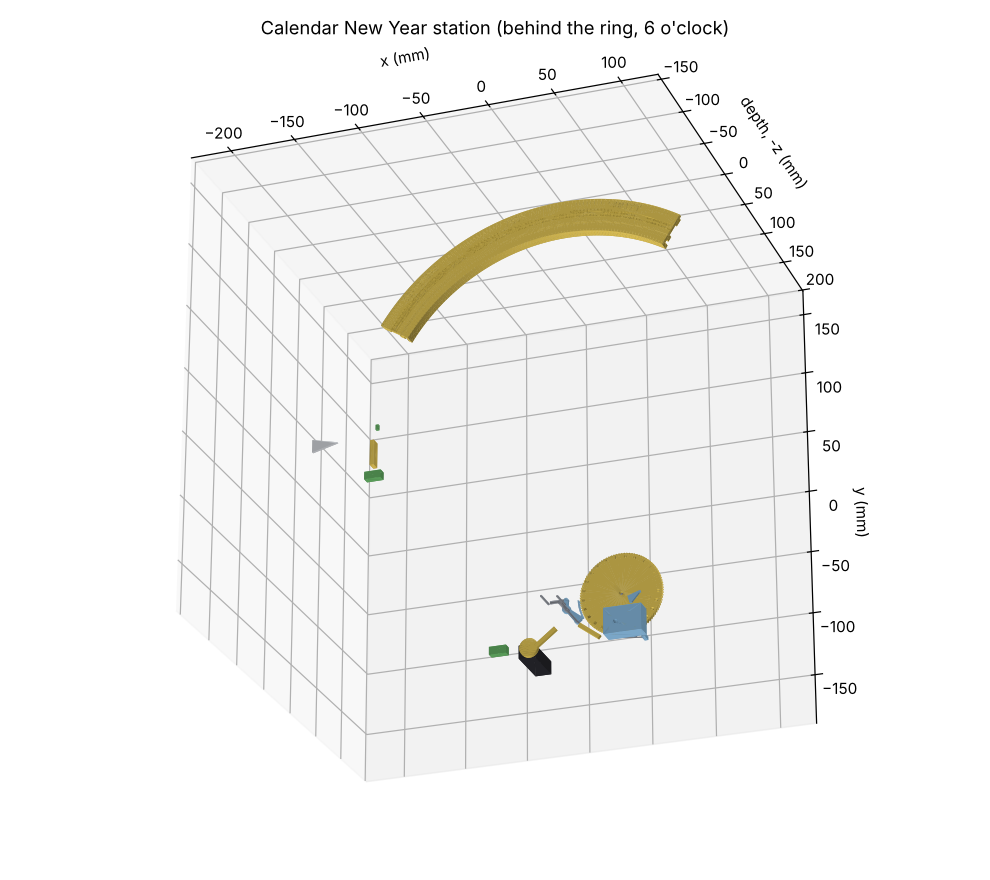
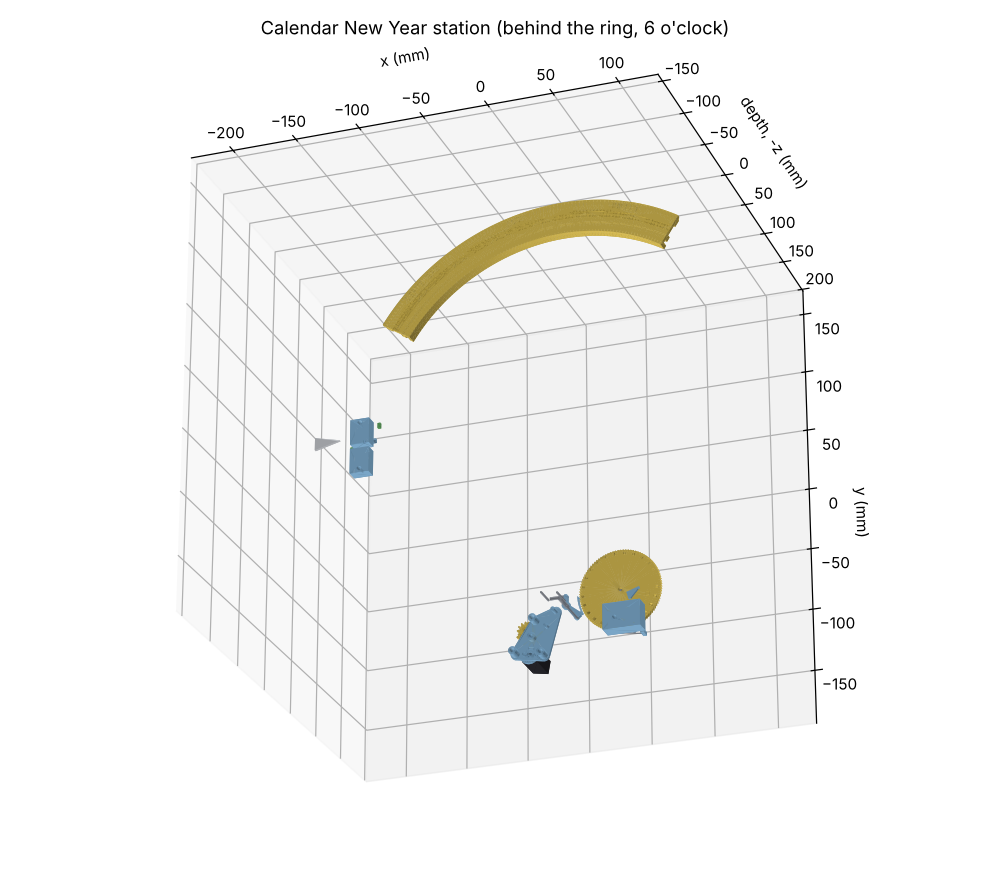
M2 E6: export the crank-and-pawl fallback as its own model; counts and renders (174 parts)
Claude-Session: https://claude.ai/code/session_01Tndyw9tksT61hV2osW21zT

diff --git a/cad/export_sketchup.py b/cad/export_sketchup.py
@@ -22,6 +22,7 @@ from pathlib import Path
 
 from cad.lib import samples
 from cad.lib.assembly import Assembly, Item, exploded, write_dae
+from cad.modules.m2_main_dial import e6
 from cad.modules.m2_main_dial import feasibility
 from cad.modules.m2_main_dial import full as m2_full
 from cad.modules.test_rig import coupons, rig
@@ -30,6 +31,7 @@ MODELS = {
     "cad_lib_samples": lambda: samples.build(),
     "m2_main_dial_feasibility": lambda: feasibility.build()[0],
     "m2_main_dial": lambda: m2_full.build()[0],
+    "m2_e6_fallback_pawl": lambda: e6.fallback_assembly(),
     "test_rig": lambda: rig.build()[0],
     "tolerance_coupons": lambda: coupons.build(),
 }
@@ -44,6 +46,7 @@ EXPLODE = {                             # model -> exploded() arguments (front o
     "m2_main_dial_feasibility": dict(offsets={"hands": 60.0, "front": 30.0}, spread=1.2, use_item_explode=False),
     "test_rig": dict(offsets={"hands": 50.0, "front": 25.0}, spread=1.5, use_item_explode=False),
     "tolerance_coupons": dict(spread=0.0),     # gears lift off the board by their own explode vectors
+    "m2_e6_fallback_pawl": dict(spread=1.5, use_item_explode=False),   # its layers come apart along the shafts
 }
 
 

diff --git a/cad/modules/m2_main_dial/e6.py b/cad/modules/m2_main_dial/e6.py
@@ -855,3 +855,15 @@ def pinion_safety() -> dict:
     b = MESH_Z[1] - MESH_Z[0]
     cap = b * M_RING * lewis_y(PINION.teeth)
     return {k: 9.75 / (f / cap) for k, f in mesh_loads().items()}
+
+
+def fallback_assembly(pointer: int = 0):
+    """The fallback's own parts (variant "pawl"), for its print and SketchUp files. The ring and the
+    stop lever are shared with the built variant and exported with M2."""
+    from cad.lib.assembly import Assembly
+    a = Assembly("m2_e6_fallback_pawl")
+    for nm, shp, kw in pawl_parts(pointer):
+        a.add(nm, shp, **kw)
+    for x, y in PAWL_ALLOW:
+        a.allow(x, y)
+    return a

diff --git a/cad/export_print.py b/cad/export_print.py
@@ -33,12 +33,14 @@ STL_ANGULAR = 0.3             # rad
 
 
 def _models():
+    from cad.modules.m2_main_dial import e6
     from cad.modules.m2_main_dial import full as m2_full
     from cad.modules.test_rig import coupons, rig
     return {
         "tolerance_coupons": lambda: coupons.build(),
         "test_rig": lambda: rig.build()[0],
         "m2_main_dial": lambda: m2_full.build()[0],
+        "m2_e6_fallback_pawl": lambda: e6.fallback_assembly(),    # Paul: keep design A (crank and pawl)
     }
 
 

diff --git a/docs/m2-design.md b/docs/m2-design.md
@@ -36,14 +36,14 @@ New Year station.
 
 | Check | Result |
 |---|---|
-| Interference, all 165 parts, exact B-rep (the 5 date inlays are checked as part of their own parts: `Item.inside`) | **0** |
+| Interference, all 174 parts, exact B-rep (the 5 date inlays are checked as part of their own parts: `Item.inside`) | **0** |
 | Fixed parts inside the path of the turning calendar ring (other than its designed readers) | **0** |
 | Movable sector against the ring, common and leap positions | **0** overlap (`test_calendar_ring.py`) |
 | Rotating hands: any two parts on different tubes that could touch at some angle | 0 (feasibility study; same front stack) |
 | Calendar logic, day by day, 2026–2426, five different start dates | **0 wrong days**. Every New Year jump is 4 divisions (common) or 3 (leap), including 2100, 2200, 2300 and 2400. |
 | Bed fit, single and dual nozzle | every printed part fits in its print pose. The largest are the dial (Ø 287.5) and the plates (281 × 232). |
 | Envelope | x −196 … +184, y −195 … +192, z −162 … +24 mm: inside the M2 bay. Nothing comes within about 18 mm of the floor. **Depth 185 mm.** |
-| Parts | 165 in the model: 99 printed (including 5 date inlays), 64 bought (plus 2 v1.5 space claims) |
+| Parts | 174 in the model: 102 printed (including 5 date inlays), 70 bought (plus 2 v1.5 space claims). E6's fallback (crank and pawl) is a separate model, `e6.fallback_assembly()`. |
 | Motor torque | ≈ 2.9 mN·m at the motor, **≈ 50×** margin at 0.5 A [E, §9] |
 
 <p align="center"><img src="img/m2/m2_front.png" width="420" alt="M2 front"> <img src="img/m2/m2_three_quarter.png" width="420" alt="M2 three-quarter"></p>
@@ -421,6 +421,8 @@ module 0.9216, 20°, tips at r 170.5 (the lip's old edge) [D: 2 × 170.5 / 370].
   the setter's rocker passes once a year (its bars reach −5.6 and r 171).
 - The rocker's detent block was narrowed to stay inside r 168.4, clear of the pinion's teeth, which
   reach r 168.66.
+
+<p align="center"><img src="img/m2/e6_drive.png" width="900" alt="E6 from the model: the finger-and-star drive at 6 o'clock, the stop lever in side section, and the crank-and-pawl fallback"></p>
 
 *D, finger and star (built):*
 
